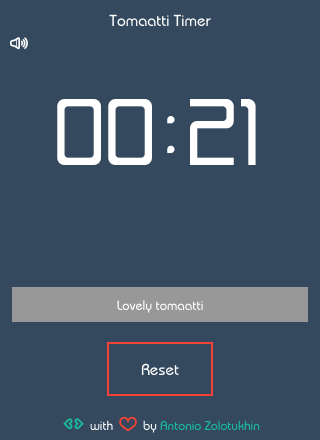
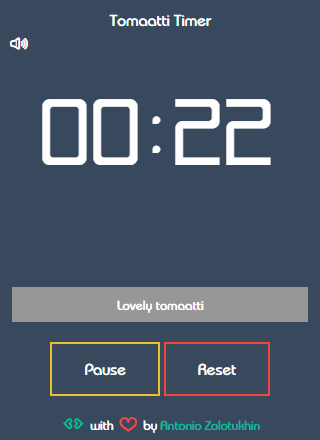
Added pause functionality. Updated README and screenshots

diff --git a/src/css/style.css b/src/css/style.css
@@ -1,1 +1,1 @@
-@font-face{font-family:font;src:url("../assets/fonts/tomaatti-font.woff")}@font-face{font-family:digits;src:url("../assets/fonts/tomaatti-digits.woff")}@font-face{font-family:glyphs;src:url("../assets/fonts/tomaatti-glyphs.woff")}#wrapper{position:relative;width:320px;margin:0 auto;overflow:hidden}.slider{position:absolute;left:-340px;width:320px;height:380px}.slider.opened{transition:.5s;left:0}.slider.closed{transition:.5s;left:350px}#settings,#sound{position:absolute;width:15%;float:left;}#settings:after,#sound:after{margin-right:10px;text-decoration:none;color:#fff}#settings:hover,#sound:hover{cursor:pointer}#settings:after{content:'\e803';font-family:glyphs}#sound{top:35px}#sound.on:after{content:'\e805';font-family:glyphs}#sound.off:after{content:'\e804';font-family:glyphs}#settings-block{display:block;margin:0 auto;padding:0 20px}#settings-block label{font-family:font;font-size:14px;color:#fff}.settings-input{font-family:digits;font-size:16px;width:90%;padding:5px 10px;margin-bottom:10px}.tomaatti-timer{width:320px;float:left;overflow:hidden;height:420px;}@media screen and (max-width:750px){.tomaatti-timer{float:left}}.tomaatti-timer,.timer-controls,.slider{padding:10px 0;background-color:#34495e}.timer-table{padding:35px 0 30px 0}@-moz-document url-prefix(){.timer-table{padding:35px 0 20px 0}}.title{font-family:font;color:#fff;padding-bottom:20px}.timer-table,.tomaatti-timer span{font-family:digits;color:#fff;min-height:70px;font-size:270%}#start-timer,#reset-timer,#save-settings,#cancel,input#sound-checkbox{background-color:#34495e;border:2px solid;color:#fff;padding:15px 32px;text-decoration:none;outline:none;display:inline-block;font-size:16px}#start-timer,#save-settings{border-color:#4caf50;}#start-timer:hover,#save-settings:hover{background-color:#4caf50}#reset-timer,#cancel{border-color:#f44336;}#reset-timer:hover,#cancel:hover{background-color:#f44336}.time-delimiter{position:relative;bottom:.1em}#break-time{font-family:font;font-size:50%;color:#fff;padding:5px;margin:0 10px;border:2px solid #4caf50;border-radius:5px;background-color:#2c3e50;visibility:hidden}#timer-label{display:block;width:80%;margin:20px auto;padding:5px 20px;height:25px;color:#fff;outline:none;}#timer-label::placeholder{color:#fff}#timer-label:required{background-color:#2c3e50;border:none}#timer-label:invalid{background-color:#f44336}#timer-label:disabled{background-color:#989898}#timer-label,.timer-controls,#start-timer,#reset-timer,#save-settings,#cancel{font-family:font}#timer-label,.title,.tomaatti-timer,.timer-controls,#settings-block label,.settings-input,#save-settings,#cancel{text-align:center}.credits{font-size:.8em;font-family:font;color:#fff}.credits .code:after,.credits .love:after{font-family:glyphs;margin:0 3px;font-size:.5em}.credits .code:after{content:'\e807';color:#1abc9c}.credits .love:after{content:'\e800';color:#f44336}.credits a{color:#1abc9c;text-decoration:none}.credits a:hover{text-decoration:underline}
+@font-face{font-family:font;src:url("../assets/fonts/tomaatti-font.woff")}@font-face{font-family:digits;src:url("../assets/fonts/tomaatti-digits.woff")}@font-face{font-family:glyphs;src:url("../assets/fonts/tomaatti-glyphs.woff")}#wrapper{position:relative;width:320px;margin:0 auto;overflow:hidden}.slider{position:absolute;left:-340px;width:320px;height:380px}.slider.opened{transition:.5s;left:0}.slider.closed{transition:.5s;left:350px}#settings,#sound{position:absolute;width:15%;float:left;}#settings:after,#sound:after{margin-right:10px;text-decoration:none;color:#fff}#settings:hover,#sound:hover{cursor:pointer}#settings:after{content:'\e803';font-family:glyphs}#sound{top:35px}#sound.on:after{content:'\e805';font-family:glyphs}#sound.off:after{content:'\e804';font-family:glyphs}#settings-block{display:block;margin:0 auto;padding:0 20px}#settings-block label{font-family:font;font-size:14px;color:#fff}.settings-input{font-family:digits;font-size:16px;width:90%;padding:5px 10px;margin-bottom:10px}.tomaatti-timer{width:320px;float:left;overflow:hidden;height:420px;}@media screen and (max-width:750px){.tomaatti-timer{float:left}}.tomaatti-timer,.timer-controls,.slider{padding:10px 0;background-color:#34495e}.timer-table{padding:35px 0 30px 0}@-moz-document url-prefix(){.timer-table{padding:35px 0 20px 0}}.title{font-family:font;color:#fff;padding-bottom:20px}.timer-table,.tomaatti-timer span{font-family:digits;color:#fff;min-height:70px;font-size:270%}#start-timer,#pause-timer,#reset-timer,#save-settings,#cancel,input#sound-checkbox{background-color:#34495e;border:2px solid;color:#fff;padding:15px 32px;text-decoration:none;outline:none;display:inline-block;font-size:16px}#start-timer,#save-settings{border-color:#4caf50;}#start-timer:hover,#save-settings:hover{background-color:#4caf50}#pause-timer{display:none;border-color:#f2bb05;}#pause-timer:hover{background-color:#f2bb05}#reset-timer,#cancel{border-color:#f44336;}#reset-timer:hover,#cancel:hover{background-color:#f44336}.time-delimiter{position:relative;bottom:.1em}#break-time{font-family:font;font-size:50%;color:#fff;padding:5px;margin:0 10px;border:2px solid #4caf50;border-radius:5px;background-color:#2c3e50;visibility:hidden}#timer-label{display:block;width:80%;margin:20px auto;padding:5px 20px;height:25px;color:#fff;outline:none;}#timer-label::placeholder{color:#fff}#timer-label:required{background-color:#2c3e50;border:none}#timer-label:invalid{background-color:#f44336}#timer-label:disabled{background-color:#989898}#timer-label,.timer-controls,#start-timer,#pause-timer,#reset-timer,#save-settings,#cancel{font-family:font}#timer-label,.title,.tomaatti-timer,.timer-controls,#settings-block label,.settings-input,#save-settings,#cancel{text-align:center}.credits{font-size:.8em;font-family:font;color:#fff}.credits .code:after,.credits .love:after{font-family:glyphs;margin:0 3px;font-size:.5em}.credits .code:after{content:'\e807';color:#1abc9c}.credits .love:after{content:'\e800';color:#f44336}.credits a{color:#1abc9c;text-decoration:none}.credits a:hover{text-decoration:underline}

diff --git a/src/js/timer-controls.js b/src/js/timer-controls.js
@@ -7,7 +7,9 @@ import settings from './settings.js';
 let timer = (function() {
   let startingTime = 5;
   let isTimerOn = false;
+  let timeOnPause = 0;
   let startButton = document.getElementById('start-timer');
+  let pauseButton = document.getElementById('pause-timer');
   let resetButton = document.getElementById('reset-timer');
   let minutesSelector = document.querySelector('.minutes');
   let secondsSelector = document.querySelector('.seconds');
@@ -16,66 +18,96 @@ let timer = (function() {
   function preset() {
     minutesSelector.innerHTML = ('0' + String(startingTime)).slice(-2);
     secondsSelector.innerHTML = '00';
+    startButton.style.display = 'initial';
+    pauseButton.style.display = 'none';
   }
   
   function start() {
-    if (!tomaattiLabel["value"]) alert('Please name your Tomaatti first');
-    else if (!isTimerOn) {
-      isTimerOn = true;
-      tomaattiLabel.setAttribute('disabled', 'disabled');
-      startButton.style.display = 'none';
-      return helpers.countdown(helpers.minToMsec(startingTime));
+    if (!tomaattiLabel["value"]) return alert('Please name your Tomaatti first');
+    if (!isTimerOn && timeOnPause === 0) {
+      helpers.countdown(helpers.minToMsec(startingTime));
+    } else if (!isTimerOn && timeOnPause !== 0) {
+      helpers.countdown(timeOnPause);
+      pauseButton.classList.remove('paused');
     }
+    isTimerOn = true;
+    maniputateElementsAfterStart();
   }
-
+  
+  function maniputateElementsAfterStart() {
+    tomaattiLabel.setAttribute('disabled', 'disabled');
+    startButton.style.display = 'none';
+    pauseButton.style.display = 'initial';
+  }
+  
   function reset() {
     clearTimeout(helpers.getTimeoutID());
     isTimerOn = false;
+    timeOnPause = 0;
     settings.disableSettingsPage(false);
     tomaattiLabel.removeAttribute('disabled');
     breaks.setBreakState(false);
     if ( breaks.breakTimeLabel.style.visibility === 'visible') {
       breaks.breakTimeLabel.style.visibility = 'hidden'
     }
-    if (startButton.style.display === 'none') {
-      startButton.style.display = 'initial';
+    if (pauseButton.classList.contains('paused')) {
+      pauseButton.classList.remove('paused');
     }
     preset();
+  }
+  
+  function pause() {
+    isTimerOn = false;
+    clearTimeout(helpers.getTimeoutID());
+    startButton.style.display = 'initial';
+    pauseButton.style.display = 'none';
+
+    if (!pauseButton.classList.contains('paused')) {
+      pauseButton.classList.add('paused');
+    }
   }
   
   function getStartTime() {
     return startingTime;
   }
-
+  
   function setStartTime(minutes) {
     startingTime = minutes;
     return startingTime;
   }
 
+  function setTimeOnPause(milliseconds) {
+    timeOnPause = milliseconds;
+    return timeOnPause;
+  }
+  
   function getTimerState() {
     return isTimerOn;
   }
-
+  
   function setTimerState(state) {
     isTimerOn = state;
     return isTimerOn;
   }
-
+  
   function getTomaattiName() {
     return tomaattiLabel["value"];
   }
-
+  
   return {
     preset: preset,
     start: start,
+    pause: pause,
     reset: reset,
     minutesSelector: minutesSelector,
     secondsSelector: secondsSelector,
     startButton: startButton,
+    pauseButton: pauseButton,
     resetButton: resetButton,
     tomaattiLabel: tomaattiLabel,
     getStartTime: getStartTime,
     setStartTime: setStartTime,
+    setTimeOnPause: setTimeOnPause,
     getTimerState: getTimerState,
     setTimerState: setTimerState,
     getTomaattiName: getTomaattiName

diff --git a/index.html b/index.html
@@ -26,7 +26,8 @@
       <div class="timer-controls">
         <input type="text" name="tomaatti-label" id="timer-label" placeholder="Name your Tomaatti" value="" required>
         <input id="start-timer" type="button" value="Start">
-        <input id="reset-timer" type="reset" value="Reset">
+        <input id="pause-timer" type="button" value="Pause">
+        <input id="reset-timer" type="button" value="Reset">
       </div>
       <div class="credits"><a href="https://github.com/bandantonio/tomaatti-timer" target="blank"><span class="code"></span></a> with <span class="love"></span> by <a href="https://mister-gold.pro" target="blank" class="author">Antonio Zolotukhin</a></div>
     </div>

diff --git a/src/js/index.js b/src/js/index.js
@@ -17,6 +17,7 @@ let application = (function () {
 export default application;
 
 timer.startButton.addEventListener('click', timer.start);
+timer.pauseButton.addEventListener('click', timer.pause);
 timer.resetButton.addEventListener('click', timer.reset);
 document.addEventListener('DOMContentLoaded', application.init);
 

diff --git a/src/js/helpers.js b/src/js/helpers.js
@@ -17,8 +17,10 @@ let helpers = (function () {
     
     timers.minutesSelector.innerHTML = String(minutes);
     timers.secondsSelector.innerHTML = String(seconds);
+    timers.setTimeOnPause(milliseconds);
 
     milliseconds -= 1000;
+    
     if (ticking) {
       tickingSound.load();
       tickingSound.play();

diff --git a/README.md b/README.md
@@ -39,22 +39,27 @@ Bingo! :tada:
 
 ### Screenshots
 
-![Main Screen](showcase/1.png) ![Running Timer](showcase/2.png)
-
-![Break Time](showcase/3.png) ![Settings](showcase/4.png)
+ **Main screen** | **Running Timer**
+-----------------|------------------
+![Main Screen](showcase/1.png) | ![Running Timer](showcase/2.png)
+ **Paused Timer** | **Running Timer**
+![Paused Timer](showcase/3.png) | ![Break Time](showcase/4.png)
+ **Settings** | **Applied new settings** |
+![Settings](showcase/5.png) | ![Applied new settings](showcase/6.png)
 
 ### Features
 
-The initial version (0.1.0) of the Tomaatti Timer has the following features:
+The current list of features includes:
 
 * configurable timer intervals (cycle, short and long breaks)
+* pause functionality
 * ticking sound (optional)
 
 ### Roadmap
 
 Below is a plan for further improvements:
 
-1. Pause functionality :question:
+1. ~~Pause functionality~~ (implemented in #3)
 1. Sounds for start/end of each cycle
 1. Popup notifications
 1. Keyboard shortcuts
